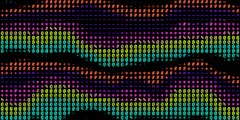
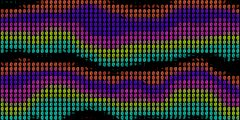
Show Invert for Retro Print, pick glyphs by brightest channel, cap the cell target
- Print visibility rules move to finish-rack.ts with unit tests: Invert shows for
  Retro palette; Paper, Largest mark and Mark softness hide under it; Classic dot
  stays disabled with Retro.
- Characters take each cell's brightest channel as tone (Ruling 20), so saturated
  presets no longer read nearly black; chars.jpg regenerated.
- Cell grids keep within the GPU's largest texture on very wide outputs.
- Tile Edges blocker names the effect in use; rack descriptions mention blue noise,
  retro palettes and how the tile effects stack.

diff --git a/src/ui/finish-rack.ts b/src/ui/finish-rack.ts
@@ -45,10 +45,10 @@ export const FINISH_EFFECTS: FinishEffect[] = [
   { id: 'lumaWarp', label: 'Luma Warp', group: 'Warp', description: 'Melts the picture along its own light, or along the layer below.', keys: LUMA_WARP_KEYS, power: { lumaWarpAmount: .15 }, supported: supportsWarp, summary: p => LUMA_SOURCES[Math.round(p.lumaWarpSource ?? 0)] ?? '' },
   { id: 'polar', label: 'Polar', group: 'Warp', description: 'Wraps the picture into a circle, or unrolls a circle into a strip.', keys: POLAR_KEYS, power: { polarAmount: 1 }, supported: supportsWarp, summary: p => POLAR_MODES[Math.round(p.polarMode ?? 0)] ?? '' },
   { id: 'mirror', label: 'Mirror', group: 'Warp', description: 'Reflects the picture into symmetrical halves, quarters or wedges.', keys: MIRROR_KEYS, power: { mirrorAmount: 1 }, supported: supportsWarp, summary: p => MIRROR_MODES[Math.round(p.mirrorMode ?? 0)] ?? '' },
-  { id: 'print', label: 'Print screen', group: 'Surface', description: 'Halftone dots, line screens and ordered dither, sized in pixels of a 1080-line frame. Loops close exactly.', keys: PRINT_KEYS, power: { printMix: 1 }, supported: supportsPrint, summary: p => ['Dots', 'Lines', 'Dither', 'Blue noise'][Math.round(p.printType ?? 0)] ?? '' },
-  { id: 'led', label: 'LED wall', group: 'Surface', description: 'Rebuilds the picture as a wall of glowing LEDs.', keys: LED_KEYS, power: { ledAmount: 1 }, supported: supportsTiles, summary: p => LED_SHAPES[Math.round(p.ledShape ?? 0)] ?? '' },
-  { id: 'chars', label: 'Characters', group: 'Surface', description: 'Rebuilds the picture from text characters.', keys: CHAR_KEYS, power: { charAmount: 1 }, supported: supportsTiles, summary: p => CHAR_SETS[Math.round(p.charSet ?? 0)]?.name ?? '' },
-  { id: 'tiles', label: 'Tiles', group: 'Surface', description: 'Rebuilds the picture from mosaic tiles, bricks or beads.', keys: TILE_KEYS, power: { tileAmount: 1 }, supported: supportsTiles, summary: p => TILE_STYLES[Math.round(p.tileStyle ?? 0)] ?? '' },
+  { id: 'print', label: 'Print screen', group: 'Surface', description: 'Halftone dots, line screens, ordered dither, blue noise and retro palettes, sized in pixels of a 1080-line frame. Loops close exactly.', keys: PRINT_KEYS, power: { printMix: 1 }, supported: supportsPrint, summary: p => ['Dots', 'Lines', 'Dither', 'Blue noise'][Math.round(p.printType ?? 0)] ?? '' },
+  { id: 'led', label: 'LED wall', group: 'Surface', description: 'Rebuilds the picture as a wall of glowing LEDs. Characters and Tiles replace it where stacked.', keys: LED_KEYS, power: { ledAmount: 1 }, supported: supportsTiles, summary: p => LED_SHAPES[Math.round(p.ledShape ?? 0)] ?? '' },
+  { id: 'chars', label: 'Characters', group: 'Surface', description: 'Rebuilds the picture from text characters. Stacks over LED wall by replacing it.', keys: CHAR_KEYS, power: { charAmount: 1 }, supported: supportsTiles, summary: p => CHAR_SETS[Math.round(p.charSet ?? 0)]?.name ?? '' },
+  { id: 'tiles', label: 'Tiles', group: 'Surface', description: 'Rebuilds the picture from mosaic tiles, bricks or beads. Stacks over LED wall and Characters by replacing them.', keys: TILE_KEYS, power: { tileAmount: 1 }, supported: supportsTiles, summary: p => TILE_STYLES[Math.round(p.tileStyle ?? 0)] ?? '' },
   { id: 'flat', label: 'Flat colour & outlines', group: 'Surface', description: "Hard palette bands and contour lines. For the cleanest edges, lower the source's Relief and Softness.", keys: TOON_KEYS, power: { toonMix: 1 }, supported: always, summary: p => `${Math.round(p.toonBands ?? 5)} bands` },
   { id: 'time', label: 'Time displacement', group: 'Time', description: 'Parts of the frame show other moments of the loop. Loops close exactly; each slice renders the source once more.', keys: SLIT_KEYS, power: { slitShift: 1 }, supported: supportsSlitScan, summary: p => SLIT_MODES[Math.round(p.slitMode ?? 0)] ?? '' },
   { id: 'feedback', label: 'Feedback', group: 'Time', description: 'Each frame keeps a faded, moved echo of the last. Loops close exactly; exports warm up before the first frame.', keys: FEEDBACK_KEYS, power: { echo: .8 }, supported: supportsFeedback, summary: p => percent(p.echo ?? 0) },
@@ -136,4 +136,27 @@ export function searchFinishEffects(effects: readonly FinishEffect[], query: str
 /** The picker's cards: the chosen group (or all), narrowed by the search words. */
 export function pickerEffects(effects: readonly FinishEffect[], group: FinishGroup | 'All', query: string): FinishEffect[] {
   return searchFinishEffects(group === 'All' ? effects : effects.filter(effect => effect.group === group), query);
+}
+
+/** Whether a Print screen control applies, given the layer's other print choices. */
+export function printControlShown(layer: Pick<Layer, 'params' | 'modulations'>, key: string): boolean {
+  const p = layer.params, type = Math.round(p.printType ?? 0), colour = Math.round(p.printColour ?? 0), retro = colour === 4;
+  if (key === 'printMix') return true;
+  if (!((p.printMix ?? 0) > 0 || !!layer.modulations.printMix)) return false;
+  if (key === 'printDot') return type === 0;
+  if (key === 'printMatrix') return type === 2;
+  if (key === 'printInk') return colour === 1;
+  if (key === 'printRetro') return retro;
+  if (key === 'printShimmer') return type === 2 || type === 3;
+  // RGB light and CMYK ink screen each channel, which Invert leaves alone; the whole-colour screen and Retro flip.
+  if (key === 'printInvert') return colour < 2 || retro;
+  // Retro spans its whole palette in hard steps and fills every pixel, so these do nothing there.
+  if (key === 'printMax' || key === 'printSoft' || key === 'printPaper') return !retro;
+  if (key.startsWith('printEdge')) return Math.round(p.printArea ?? 0) > 0;
+  return true;
+}
+
+/** Choices of a Print screen control that cannot be picked: Retro palette draws the Classic dot as Round. */
+export function printDisabledOptions(layer: Pick<Layer, 'params'>, key: string): number[] | undefined {
+  return key === 'printDot' && Math.round(layer.params.printColour ?? 0) === 4 ? [1] : undefined;
 }

diff --git a/src/ui/FinishControls.tsx b/src/ui/FinishControls.tsx
@@ -7,7 +7,7 @@ import { TOON_KEYS, FEEDBACK_KEYS, GLOW_KEYS } from '../core/finishing';
 import { SLIT_MODES, SLIT_SHAPES, slitControlVisible } from '../rendering/slitscan';
 import { KALEIDOSCOPE_INPUT } from '../core/project';
 import { kaleidoscopeInput } from '../rendering/feedback';
-import { FINISH_GROUPS, pickerEffects, addFinishEffect, finishEffectOn, finishEffectsFor, finishRackEffects, finishSummary, hasPower, powerLocked, resetFinishEffect, toggleFinishEffect, type FinishEffect, type FinishGroup } from './finish-rack';
+import { FINISH_GROUPS, pickerEffects, addFinishEffect, finishEffectOn, finishEffectsFor, finishRackEffects, finishSummary, hasPower, powerLocked, printControlShown, printDisabledOptions, resetFinishEffect, toggleFinishEffect, type FinishEffect, type FinishGroup } from './finish-rack';
 import { FINISH_THUMBS } from './finish-thumbs';
 import type { Layer, ParameterDefinition } from '../shared/types';
 import { ChoiceParameter, Parameter } from './LayerControls';
@@ -31,20 +31,6 @@ const PRINT_GROUPS: [string, string[]][] = [
   ['Colour', ['printColour', 'printInk', 'printRetro', 'printPaper']],
   ['Where it prints', ['printArea', 'printEdgeWidth', 'printEdgeSense', 'printEdgeFeather']],
 ];
-/** Whether a print control applies, given the layer's other print choices. */
-function printControlShown(layer: Layer, key: string): boolean {
-  const p = layer.params, type = Math.round(p.printType ?? 0), colour = Math.round(p.printColour ?? 0);
-  if (key === 'printMix') return true;
-  if (!((p.printMix ?? 0) > 0 || !!layer.modulations.printMix)) return false;
-  if (key === 'printDot') return type === 0;
-  if (key === 'printMatrix') return type === 2;
-  if (key === 'printInk') return colour === 1;
-  if (key === 'printRetro') return colour === 4;
-  if (key === 'printShimmer') return type === 2 || type === 3;
-  if (key === 'printInvert') return colour < 2;
-  if (key.startsWith('printEdge')) return Math.round(p.printArea ?? 0) > 0;
-  return true;
-}
 export function PrintScreenSection({ layer, definitions, edit, animate, onStart, onEnd, extra, readOnly }: FinishProps) {
   const set = (key: string, n: number) => edit(l => ({ ...l, params: { ...l.params, [key]: n } }));
   const on = (layer.params.printMix ?? 0) > 0 || !!layer.modulations.printMix;
@@ -56,7 +42,7 @@ export function PrintScreenSection({ layer, definitions, edit, animate, onStart,
         const d = definitions.find(item => item.key === key);
         if (!d) return null;
         // Retro palette draws the Classic dot as Round, so that choice is not offered with it.
-        if (PRINT_CHOICES[key]) return <ChoiceParameter key={key} label={d.label} name={d.label} options={PRINT_CHOICES[key]} value={layer.params[key] ?? d.default} disabled={readOnly?.(d) ?? false} disabledOptions={key === 'printDot' && Math.round(layer.params.printColour ?? 0) === 4 ? [1] : undefined} onChange={n => set(key, n)} />;
+        if (PRINT_CHOICES[key]) return <ChoiceParameter key={key} label={d.label} name={d.label} options={PRINT_CHOICES[key]} value={layer.params[key] ?? d.default} disabled={readOnly?.(d) ?? false} disabledOptions={printDisabledOptions(layer, key)} onChange={n => set(key, n)} />;
         return <Parameter key={key} definition={d} value={layer.params[key] ?? d.default} animated={!!layer.modulations[key]} readOnly={readOnly?.(d) ?? false} onChange={n => set(key, n)} onAnimate={animate && d.step !== 1 ? () => animate(key) : undefined} extra={extra?.(d)} onStart={onStart} onEnd={onEnd} />;
       })}</div>;
     })}

diff --git a/src/rendering/StudioRenderer.ts b/src/rendering/StudioRenderer.ts
@@ -31,7 +31,7 @@ import { BLUE_NOISE_SIZE, blueNoise, printActive, printShimmerShift, printUnifor
 import { BLOOM_HEIGHTS, BloomPyramid, StreakBlur, bloomChannelWeights, glowActive, glowBrightFragment, lightTarget, setWrap } from './bloom';
 import { gradientStops, lensActive, lensFragment, safeMidpoint, spectralWeights, whiteBalance } from './colour-lens';
 import { layerWarpView, warpActive, warpFragment, warpPicture, warpPoints } from './warp';
-import { CHAR_SETS, cellColourFragment, cellGrid, tileFragment, tilesActive } from './tiles';
+import { CHAR_SETS, cellColourFragment, fitCellGrid, tileFragment, tilesActive } from './tiles';
 import { GLYPH_PX, GLYPH_SPREAD, buildGlyphAtlas } from './glyph-atlas';
 import { SURFACE_DEFAULTS, snapQuarterTurn, tileBlockers, tilePeriod } from '../core/tile-edges';
 import { packDroplets, liquidPackKey, LIQUID_BINS, LIQUID_SLOTS } from './liquid-pack';
@@ -1346,8 +1346,10 @@ export class StudioRenderer {
     const amount = (key: string) => Math.min(1, Math.max(0, number(layer, key, 0)));
     const led = amount('ledAmount'), chars = amount('charAmount'), tiles = amount('tileAmount');
     if (led <= 0 && chars <= 0 && tiles <= 0) return source;
-    const ledGrid = cellGrid(width, height, number(layer, 'ledSize', 10)), charGrid = cellGrid(width, height, number(layer, 'charSize', 16));
-    const tileGrid = cellGrid(width, height, number(layer, 'tileSize', 18)), style = Math.min(2, Math.max(0, Math.round(number(layer, 'tileStyle', 0))));
+    // The grids sit side by side in one target, so each keeps to its share of the widest target the GPU allows.
+    const share = Math.floor(this.maxTargetSize / ((led > 0 ? 1 : 0) + (chars > 0 ? 1 : 0) + (tiles > 0 ? 1 : 0))), most = this.maxTargetSize;
+    const ledGrid = fitCellGrid(width, height, number(layer, 'ledSize', 10), share, most), charGrid = fitCellGrid(width, height, number(layer, 'charSize', 16), share, most);
+    const tileGrid = fitCellGrid(width, height, number(layer, 'tileSize', 18), share - 1, most), style = Math.min(2, Math.max(0, Math.round(number(layer, 'tileStyle', 0))));
     // LED cells sit at the target's left edge, character cells to their right and tile cells after those. Tiles keep
     // a spare column, so Brick's offset rows have a cell for the part brick at each end.
     const ledCols = led > 0 ? ledGrid.cols : 0, charCols = chars > 0 ? charGrid.cols : 0, tileCols = tiles > 0 ? tileGrid.cols + 1 : 0;
@@ -1362,7 +1364,7 @@ export class StudioRenderer {
     if (cells.width < cols || cells.height < rows) cells.setSize(Math.max(cells.width, cols), Math.max(cells.height, rows));
     const c = this.cellColour.uniforms;
     c.uSource.value = source; (c.uSourceSize.value as THREE.Vector2).set(width, height);
-    const average = (grid: ReturnType<typeof cellGrid>, origin: number, columns = grid.cols, oddShift = 0) => {
+    const average = (grid: ReturnType<typeof fitCellGrid>, origin: number, columns = grid.cols, oddShift = 0) => {
       cells.viewport.set(origin, 0, columns, grid.rows);
       (c.uCellUv.value as THREE.Vector2).set(grid.cellUv[0], grid.cellUv[1]); c.uRows.value = grid.rows;
       (c.uOrigin.value as THREE.Vector2).set(origin, 0); c.uOddShift.value = oddShift;

diff --git a/tests/tiles.test.ts b/tests/tiles.test.ts
@@ -3,7 +3,7 @@ import assert from 'node:assert/strict';
 import { PRESETS, applyPreset, createLayer, createProject, validateProject, varyLayer, visibleParameterDefinitions } from '../src/core/project';
 import { CHAR_KEYS, LED_KEYS, TILE_KEYS } from '../src/core/finishing';
 import { layerTileBlocker } from '../src/core/tile-edges';
-import { CHAR_SETS, RETRO_PALETTES, cellGrid, glyphForTone, tileControlVisible, tilesActive } from '../src/rendering/tiles';
+import { CHAR_SETS, RETRO_PALETTES, cellGrid, fitCellGrid, glyphForTone, tileControlVisible, tilesActive } from '../src/rendering/tiles';
 
 const allKeys = [...LED_KEYS, ...CHAR_KEYS, ...TILE_KEYS];
 test('tile effects are off by default and older projects migrate without them', () => {
@@ -23,8 +23,13 @@ test('any amount or an animated amount runs the tile pass, never on graphic laye
   assert.equal(visibleParameterDefinitions(graphic).some(d => allKeys.includes(d.key)), false);
 });
 test('a tiled layer cannot use Tile Edges', () => {
-  const layer = createLayer('surface'); layer.params.tileAmount = .5;
-  assert.match(layerTileBlocker(layer) ?? '', /Tiles can't tile/);
+  // The message names the effect in use.
+  for (const [key, name] of [['ledAmount', 'LED wall'], ['charAmount', 'Characters'], ['tileAmount', 'Tiles']]) {
+    const layer = createLayer('surface'); layer.params[key] = .5;
+    assert.match(layerTileBlocker(layer) ?? '', new RegExp(`: ${name} can't use Tile Edges\\.$`), key);
+    const animated = createLayer('surface'); animated.modulations[key] = {} as never;
+    assert.match(layerTileBlocker(animated) ?? '', new RegExp(`: ${name} can't use Tile Edges\\.$`), `${key} animated`);
+  }
 });
 test('the cell grid is sized in 1080-line pixels at any render size', () => {
   assert.deepEqual(cellGrid(1920, 1080, 10).cols, 192);
@@ -69,4 +74,18 @@ test('tile controls appear only for the choice that uses them', () => {
   assert.equal(tileControlVisible(on({ tileAmount: .5, tileStyle: 1 }), 'tileGrout'), true);
   assert.equal(tileControlVisible(on({ tileAmount: .5, tileStyle: 2 }), 'tileGrout'), false);
   assert.equal(tileControlVisible(on({ tileAmount: .5, tileStyle: 2 }), 'tileGaps'), true);
+});
+test('a very wide output keeps each cell grid inside the GPU limit', () => {
+  // Within the limit, the grid is the plain one.
+  assert.deepEqual(fitCellGrid(3840, 2160, 2, 4096), cellGrid(3840, 2160, 2));
+  // 32768x1080 at 2-pixel LEDs wants 16384 columns; a third of a 16384 target holds 5461.
+  for (const [w, h, size, most] of [[32768, 1080, 2, 5461], [16384, 1080, 4, 2000], [20000, 1000, 3, 7]]) {
+    const grid = fitCellGrid(w, h, size, most);
+    assert.ok(grid.cols <= most && grid.cols >= most - 1, `${w}x${h} at ${size}: ${grid.cols}`);
+    assert.ok(grid.cellUv[1] * 1080 >= size, 'cells only grow');
+  }
+});
+test('a cell grid never needs more rows than the GPU allows', () => {
+  const grid = fitCellGrid(1920, 1080, .25, 1e9, 4096);
+  assert.ok(grid.rows <= 4096, String(grid.rows));
 });

diff --git a/src/rendering/tiles.ts b/src/rendering/tiles.ts
@@ -41,6 +41,17 @@ export function cellGrid(width: number, height: number, cellPx: number): { cols:
   return { cols, rows, cellUv: [1 / cols, size / 1080] };
 }
 
+/**
+ * `cellGrid`, with cells grown just enough that the grid is at most `maxCols` across. The grids share one target, so
+ * a very wide output at the smallest sizes would otherwise need a target wider than the GPU allows.
+ */
+export function fitCellGrid(width: number, height: number, cellPx: number, maxCols: number, maxRows = Infinity): ReturnType<typeof cellGrid> {
+  const grid = cellGrid(width, height, cellPx);
+  if (grid.cols <= maxCols && grid.rows <= maxRows) return grid;
+  const least = Math.max(1080 * (width / Math.max(height, 1)) / Math.max(1, maxCols), 1080 / Math.max(1, maxRows));
+  return cellGrid(width, height, Math.max(cellPx, least * (1 + 1e-6)));
+}
+
 /** Tone (0–1) to a glyph index, from the empty first glyph to the full last one. */
 export function glyphForTone(tone: number, count: number): number {
   return Math.round(Math.min(Math.max(tone, 0), 1) * (count - 1));
@@ -236,9 +247,11 @@ vec4 ledStage(vec2 uv) {
   return sum + vec4(uLedGap, 1.) * uLedGapOn * gap;
 }
 
-// Perceptual tone of a premultiplied linear colour: its luminance, encoded as the display would.
+// Tone of a premultiplied linear colour: its brightest channel, unpremultiplied, held to full value and encoded as
+// the display would. A saturated red or blue is as bright as white here, so it picks a full glyph, not a dark one.
 float tone(vec4 c) {
-  float y = max(0., dot(c.rgb / max(c.a, 1e-4), vec3(.2126, .7152, .0722)));
+  vec3 straight = max(c.rgb / max(c.a, 1e-4), vec3(0.));
+  float y = min(max(straight.r, max(straight.g, straight.b)), 1.);
   return y <= .0031308 ? 12.92 * y : 1.055 * pow(y, 1. / 2.4) - .055;
 }
 
@@ -370,7 +383,8 @@ vec4 tileStage(vec2 uv) {
 
 void main() {
   vec4 result = texture2D(uSource, vUv);
-  // LED wall first, then Characters, then Tiles; each is built from the plain layer's cells.
+  // LED wall first, then Characters, then Tiles. Each is built from the plain layer's cells and cross-fades over the
+  // result so far, so a later stage at full amount replaces the earlier ones.
   if (uLedAmount > 0.) result = mix(result, ledStage(vUv), uLedAmount);
   if (uCharAmount > 0.) result = mix(result, charStage(vUv), uCharAmount);
   if (uTileAmount > 0.) result = mix(result, tileStage(vUv), uTileAmount);

diff --git a/tests/finish-rack.test.ts b/tests/finish-rack.test.ts
@@ -161,3 +161,25 @@ test('warp labels and descriptions avoid the technical words', () => {
     for (const text of [item.label, item.description, ...defs.flatMap(d => [d.label, d.description ?? ''])]) assert.doesNotMatch(text, banned, `${id}: ${text}`);
   }
 });
+
+test('Print controls follow the screen and colour choices', async () => {
+  const { printControlShown, printDisabledOptions } = await import('../src/ui/finish-rack');
+  const layer = (params: Record<string, number>) => { const l = createLayer('surface'); Object.assign(l.params, { printMix: 1 }, params); return l; };
+  // Shimmer moves dither and blue-noise cells only.
+  for (const [type, shown] of [[0, false], [1, false], [2, true], [3, true]] as const) assert.equal(printControlShown(layer({ printType: type }), 'printShimmer'), shown, `type ${type}`);
+  // Invert flips the whole-colour screen and the retro palette; RGB light and CMYK ink ignore it.
+  for (const [colour, shown] of [[0, true], [1, true], [2, false], [3, false], [4, true]] as const) assert.equal(printControlShown(layer({ printColour: colour }), 'printInvert'), shown, `colour ${colour}`);
+  // Retro spans the whole palette with hard edges and no paper, so Largest mark, Mark softness and Paper do nothing.
+  for (const key of ['printMax', 'printSoft', 'printPaper']) {
+    assert.equal(printControlShown(layer({ printColour: 4 }), key), false, key);
+    assert.equal(printControlShown(layer({ printColour: 0 }), key), true, key);
+  }
+  assert.equal(printControlShown(layer({ printColour: 4 }), 'printRetro'), true);
+  // Retro draws the Classic dot as Round, so Classic is offered only without it.
+  assert.deepEqual(printDisabledOptions(layer({ printColour: 4 }), 'printDot'), [1]);
+  assert.equal(printDisabledOptions(layer({ printColour: 0 }), 'printDot'), undefined);
+  assert.equal(printDisabledOptions(layer({ printColour: 4 }), 'printType'), undefined);
+  // Everything but the amount hides while Print is off.
+  assert.equal(printControlShown(layer({ printMix: 0 }), 'printType'), false);
+  assert.equal(printControlShown(layer({ printMix: 0 }), 'printMix'), true);
+});

diff --git a/src/core/project.ts b/src/core/project.ts
@@ -526,9 +526,9 @@ const ADDED_FIELDS: Partial<Record<LayerKind, string[]>> = {
 // continue to use the complete instrument definition.
 /** Every control of the per-layer lens pass: hidden on layers that take no lens. */
 const LENS_KEYS = [...SPLIT_KEYS, ...GRADIENT_KEYS, ...GRADE_KEYS, ...KEY_KEYS];
-/** Every control of the warp pass: hidden on layers that take no warp. */
 /** Every control of the tile pass: hidden on layers that take no tiles. */
 const TILE_ALL_KEYS = [...LED_KEYS, ...CHAR_KEYS, ...TILE_KEYS];
+/** Every control of the warp pass: hidden on layers that take no warp. */
 const WARP_ALL_KEYS = [...WARP_KEYS, ...LIQUID_KEYS, ...LUMA_WARP_KEYS, ...POLAR_KEYS, ...MIRROR_KEYS];
 export function visibleParameterDefinitions(layer: Layer): ParameterDefinition[] {
   const visible = familyParameterDefinitions(layer);

diff --git a/src/core/tile-edges.ts b/src/core/tile-edges.ts
@@ -28,7 +28,10 @@ export function layerTileBlocker(layer: Layer): string | null {
   if (feedbackActive(layer)) return `${n}: Feedback can't tile.`;
   if (slitActive(layer)) return `${n}: Time displacement can't tile.`;
   if (printActive(layer)) return `${n}: Print screen can't tile.`;
-  if (tilesActive(layer)) return `${n}: Tiles can't tile.`;
+  if (tilesActive(layer)) {
+    const on = (key: string) => (p[key] ?? 0) > 0 || !!m[key];
+    return `${n}: ${on('ledAmount') ? 'LED wall' : on('charAmount') ? 'Characters' : 'Tiles'} can't use Tile Edges.`;
+  }
   if (warpActive(layer)) return `${n}: Warp can't tile.`;
   return null;
 }
